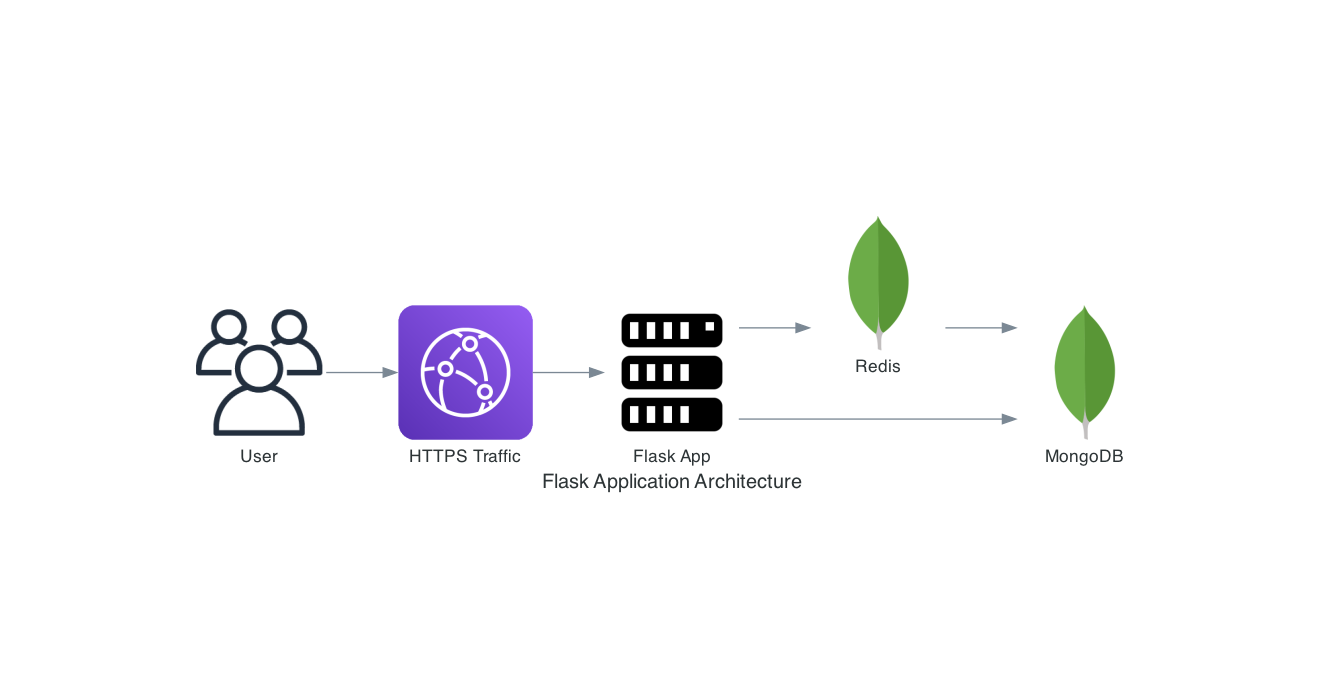
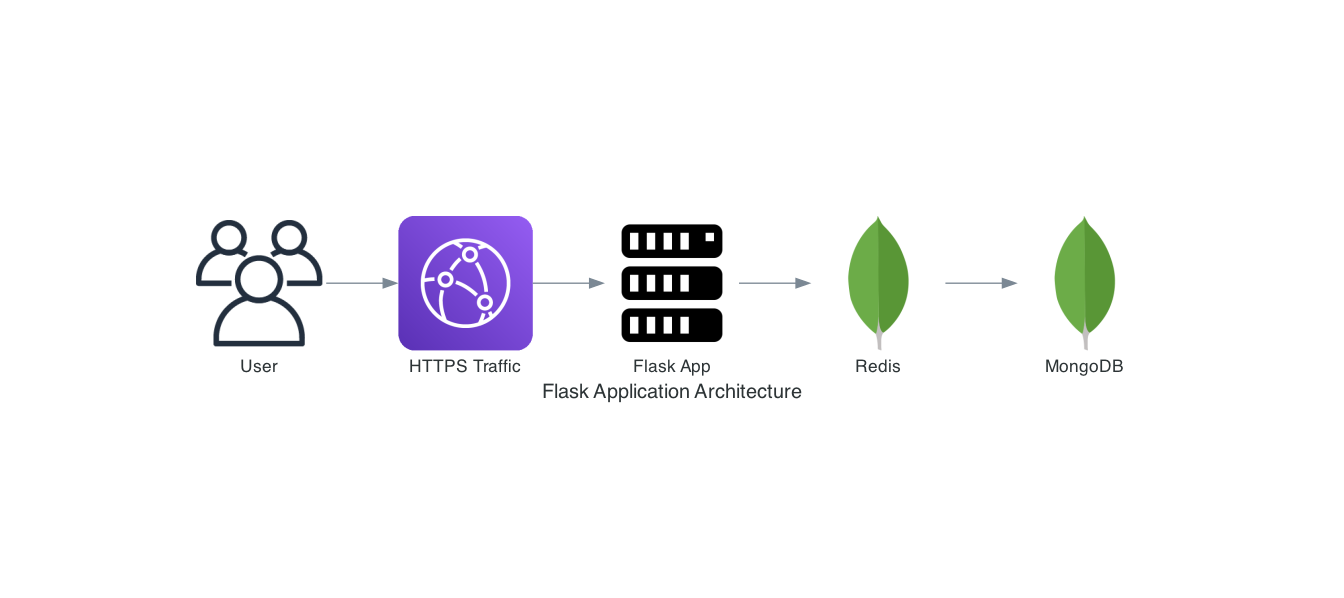
fix diagram

diff --git a/project_diagram.py b/project_diagram.py
@@ -20,5 +20,5 @@ with Diagram("Flask Application Architecture", show=False):
     with Cluster("Flask App Components"):
         flask_app >> redis_db >> mongo_db
 
-        flask_app >> mongo_db   
+   
 
